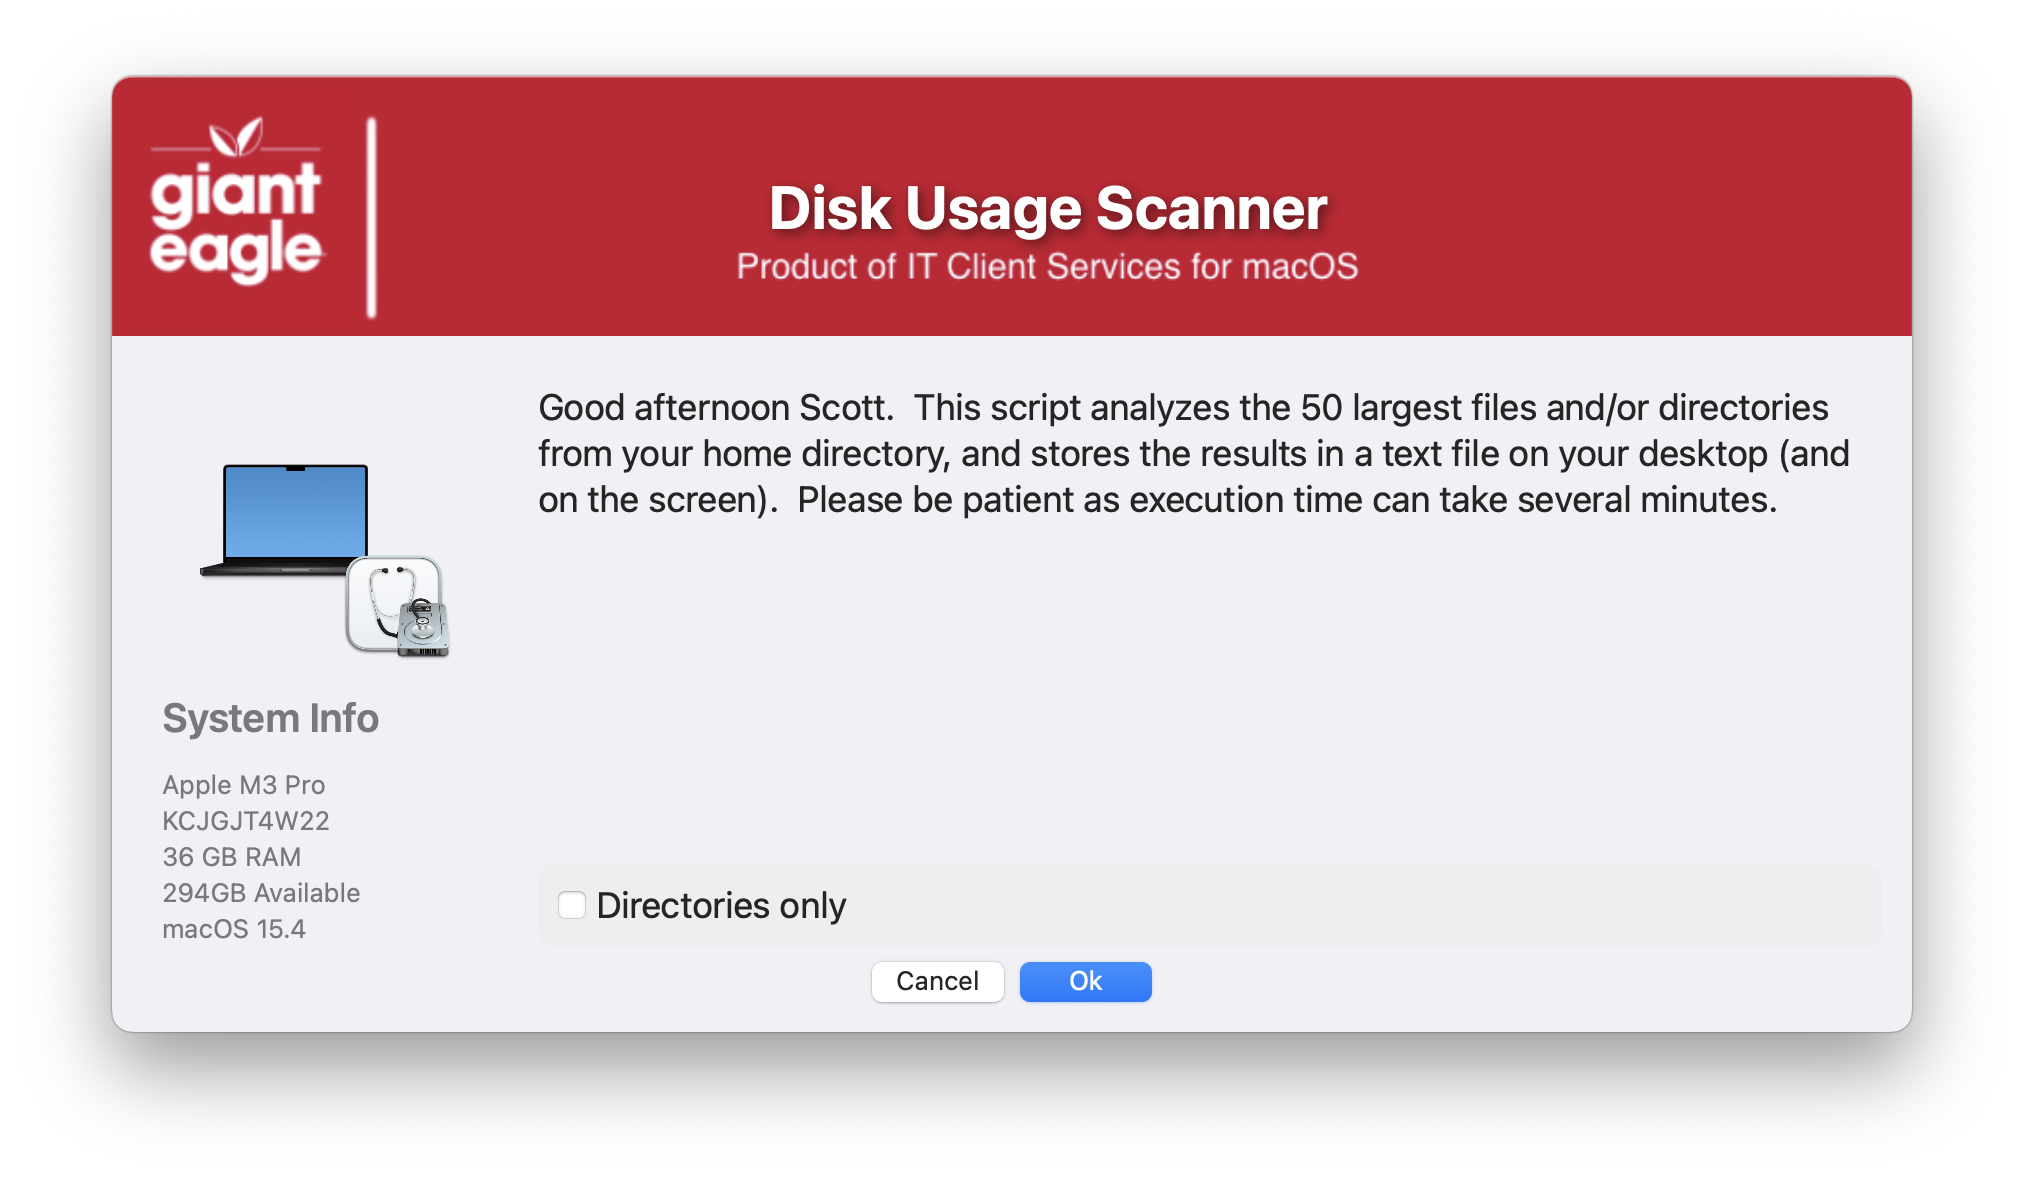
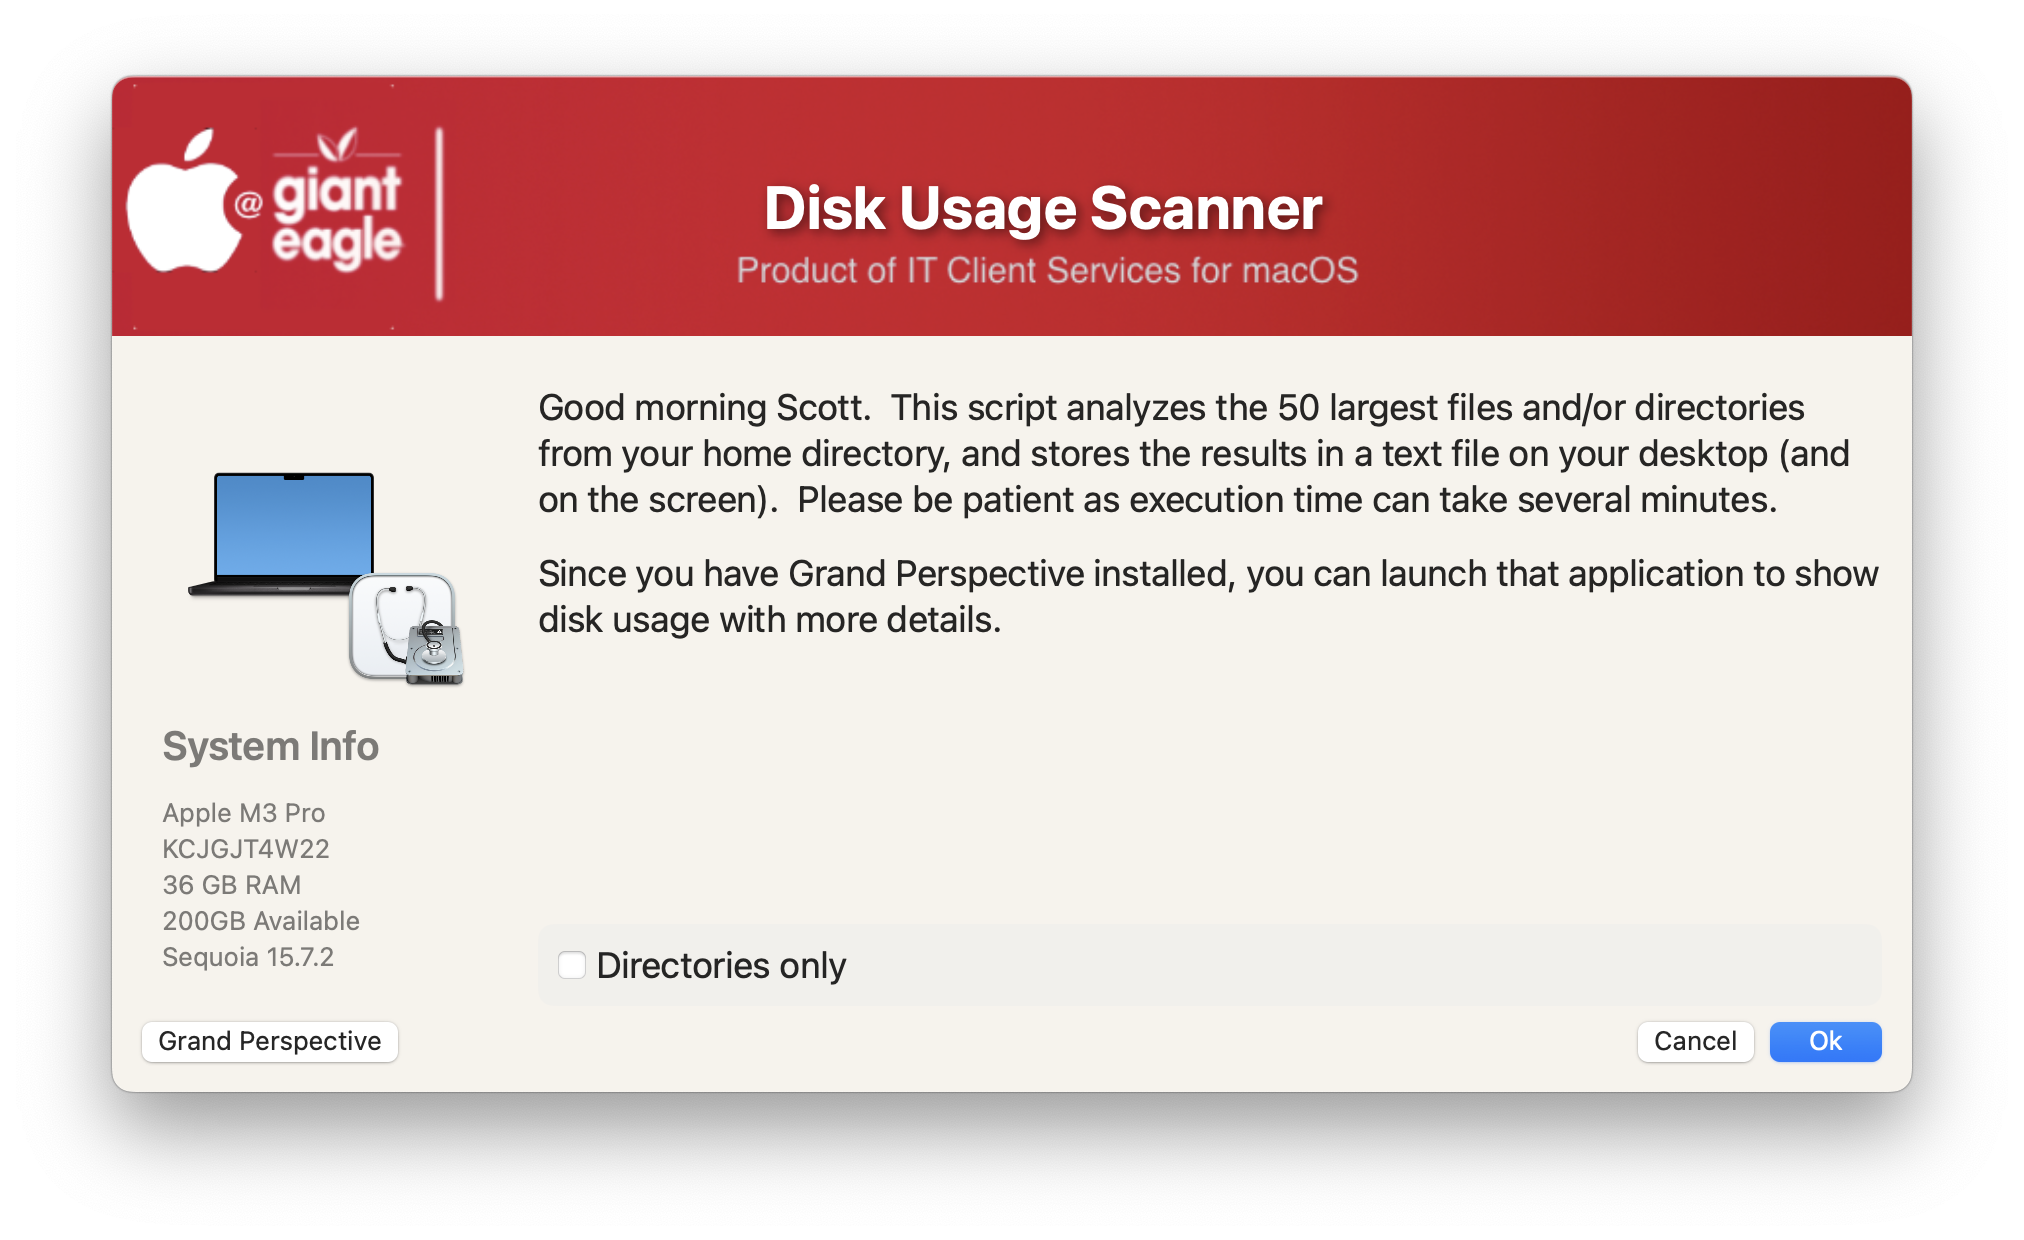
Display a sorted list of the largest files & folders

diff --git a/DiskUsage/README.md b/DiskUsage/README.md
@@ -1,10 +1,16 @@
 ## Disk Usage Scanner
 
-Quick script to display the largest files & folders in the User's home folder.  The starting location & scanning depth are set by script variables (or can be imported via script parameters).
+Quick script to display the largest files & folders in the User's home folder.  The starting location & scanning depth are set by script variables (or can be imported via script parameters).  Optionally, if you have Grand Perspective installed, it will notify the user and give them the option to launch that app.
 
-![](/DiskUsage/DiskUsage.png)
+![](./DiskUsage.png)
 
 ##### _v1.0 - Initial Commit_
 ##### _v1.1 - Major code cleanup & documentation / Structred code to be more inline / consistent across all apps_
 ##### _v1.2 - Fix issued with Grand Perpective option not showning correctly_
+##### _v1.3 - Remove the MAC_HADWARE_CLASS item as it was misspelled and not used anymore..._
+##### _v1.4 - Code cleanup_
+##### _Add verbiage in the window if Grand Perspective is installed._
+#####       _Added feature to read in defaults file_
+#####       _removed unnecessary variables._
+#####       _Fixed typos_
 
